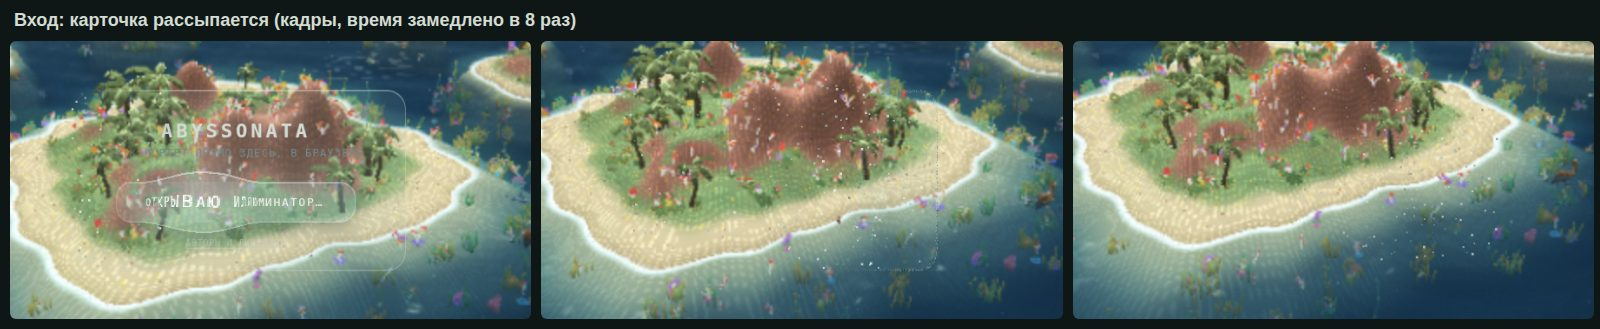
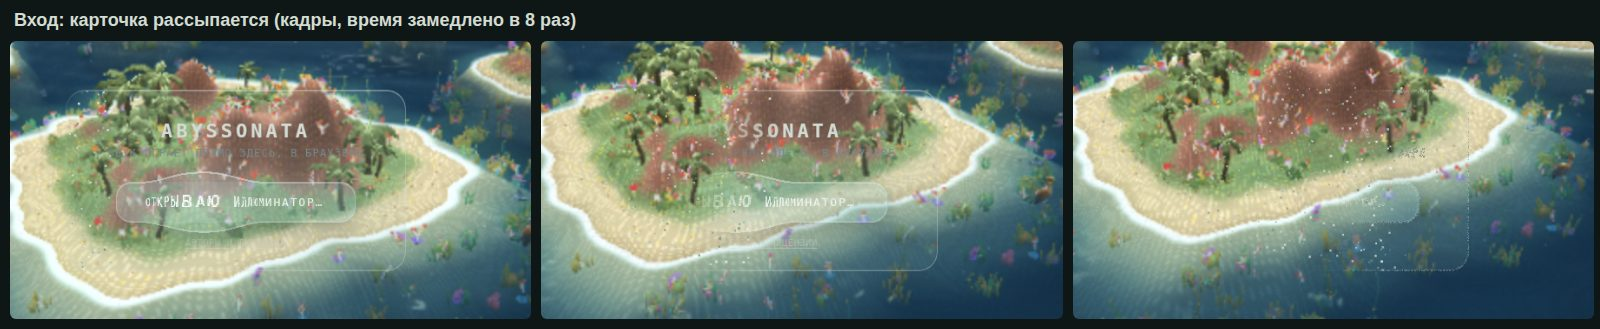
Экран входа: на слабом устройстве карточка рассыпается, а не исчезает разом
Ход растворения считался по часам: если первый кадр после «Войти» приходил позже 1.4 с
(слабое устройство, программная отрисовка), анимация сразу оказывалась законченной —
карточка исчезала разом, без частиц (поймано qa/gate_ui_check.mjs: на ПК под нагрузкой
интерфейс проявлялся, когда карточки уже не было). Теперь ход копится по кадрам, не больше
0.05 с за кадр: при 60 и 30 кадрах/с — те же 1.4 с, на совсем медленном — дольше, но
целиком. В проверку добавлен сценарий «первый кадр растворения через 2 с»: до правки —
провал, после — карточка стирается до конца, и только потом проявляется интерфейс.
Снимок docs/v22/gate_dissolve.jpg переснят.

Claude-Session: https://claude.ai/code/session_01BHzNJUyq6LaaB56ZnMU8u5

diff --git a/web/main.js b/web/main.js
@@ -123,10 +123,12 @@ const leaveGate = simple => {
   const r = card.getBoundingClientRect(), dpr = Math.min(2, devicePixelRatio || 1), cv = Object.assign(document.createElement('canvas'), { id: 'gate-dust' });
   cv.width = innerWidth * dpr; cv.height = innerHeight * dpr; document.body.appendChild(cv);
   const g = cv.getContext('2d'), disp = document.getElementById('dust-disp'), COL = ['#d3dcd3', '#92bfbd', '#eef4ee', '#6a8a80'];
-  const parts = [], DUR = 1.4; let t0 = performance.now(), last = t0;
+  // ход растворения копится по кадрам, не больше 0.05 с за кадр: при 60 и 30 кадрах/с — те же 1.4 с, а на слабом
+  // устройстве долгий кадр сразу после входа не «съедает» анимацию (карточка исчезала разом, без частиц)
+  const parts = [], DUR = 1.4; let u = 0, last = performance.now();
   card.style.filter = 'url(#dust)';
   const tick = now => {
-    const u = Math.min(1, (now - t0) / 1000 / DUR), dt = Math.min(.05, (now - last) / 1000); last = now;
+    const dt = Math.min(.05, Math.max(0, now - last) / 1000); last = now; u = Math.min(1, u + dt / DUR);
     if (u >= 1) showUI();   // карточка стёрта целиком — интерфейс проявляется (частицы ещё догорают)
     const m = -.2 + u * 1.45, mask = `linear-gradient(100deg, transparent ${(m * 100).toFixed(1)}%, #000 ${(m * 100 + 24).toFixed(1)}%)`;
     card.style.webkitMaskImage = card.style.maskImage = mask;
